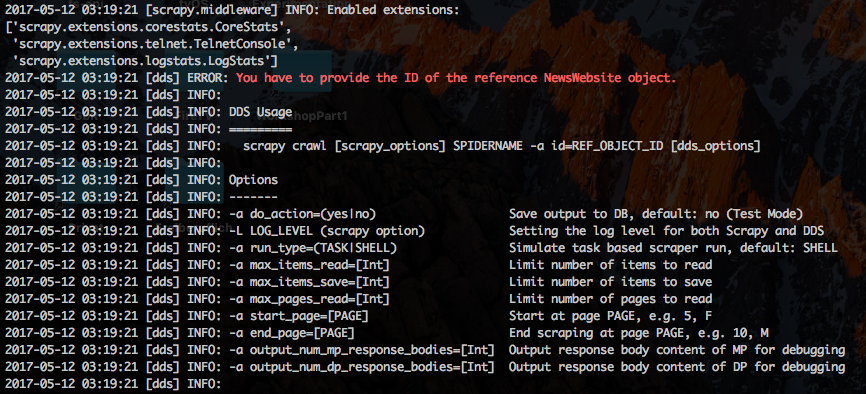
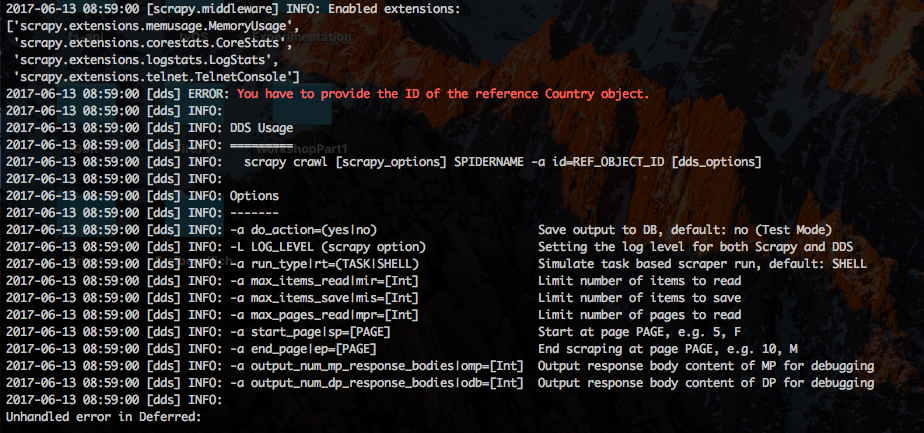
Output DDS configuration dict on DEBUG log level

diff --git a/dynamic_scraper/spiders/django_base_spider.py b/dynamic_scraper/spiders/django_base_spider.py
@@ -87,7 +87,9 @@ class DjangoBaseSpider(CrawlSpider):
 
 
     def _set_config(self, log_msg, **kwargs):
-        #run_type
+        #run_type|rt
+        if 'rt' in kwargs:
+            kwargs['run_type'] = kwargs['rt']
         if 'run_type' in kwargs:
             self.conf['RUN_TYPE'] = kwargs['run_type']
             if len(log_msg) > 0:
@@ -149,6 +151,8 @@ class DjangoBaseSpider(CrawlSpider):
             logging.getLogger('twisted').removeFilter(npf)
         if self.conf['CONSOLE_LOG_LEVEL'] != 'DEBUG':
             logging.getLogger('scrapy.middleware').addFilter(npf)
+        
+        self.log("Configuration set: " + str(self.conf), logging.DEBUG)
         
         dispatcher.connect(self.spider_closed, signal=signals.spider_closed)
 

diff --git a/setup.py b/setup.py
@@ -4,7 +4,7 @@ import os
 
 setup(
     name='django-dynamic-scraper',
-    version='0.12.4',
+    version='0.12.5',
     description='Creating Scrapy scrapers via the Django admin interface',
     author='Holger Drewes',
     author_email='Holger.Drewes@gmail.com',

diff --git a/docs/development.rst b/docs/development.rst
@@ -90,6 +90,14 @@ Docker container can be run with::
 
 Release Notes
 =============
+**Changes in version 0.12.5-beta** (NOT YET RELEASED)!
+
+Added short forms for command line options:
+
+.. image:: images/screenshot_dds_command_line_help.png
+
+
+
 **Changes in version 0.12.4-beta** (2017-06-12)
 
 Added possibility to select an internal ``work_status`` for a scraper to ease getting an
